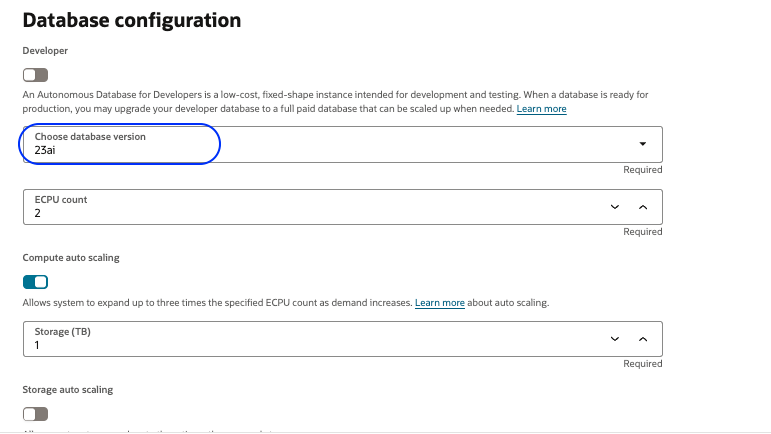
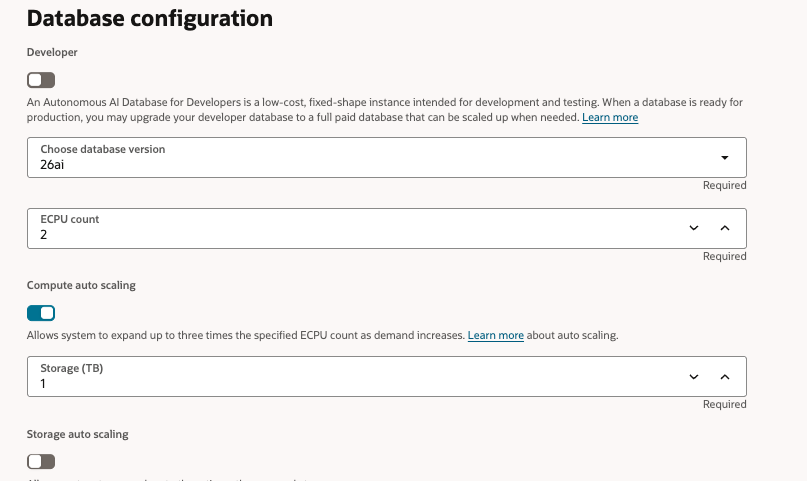
Fixes & Redwood theme updates (#457)
* Update manifest.json

* Update manifest.json

* Update manifest.json

* fixes

* Update agentrun.md

diff --git a/generative-ai-agent-adk/agent-setup/setup.md b/generative-ai-agent-adk/agent-setup/setup.md
@@ -15,7 +15,7 @@ Estimated Time: 30 minutes
 
 ## Task 1: Dynamic Group and Policy Definition
 
-This task will help you ensure that the Dynamic Group and Policy are correctly defined.
+This task will help you setup and verify that the Dynamic Group and Policy are correctly defined.
 
 1. Locate Domains under Identity & Security
 
@@ -26,8 +26,7 @@ This task will help you ensure that the Dynamic Group and Policy are correctly d
 3. Click on Dynamic Groups, and then your Dynamic Group name.
 
     ![Dynamic group](images/domain_dg.png)
-
-4. Click Create dynamic group. Provide a name and a description. Select the option Match any rules defined below.
+1. Click *Create Dynamic Group.* Provide a name and description, then select the "Match any rules defined below" option.
 
     ![Create Dynamic group](images/create_dg.png)
     
@@ -51,7 +50,7 @@ This task will help you ensure that the Dynamic Group and Policy are correctly d
 
 ## Task 2: Create Policies
 
-This task will help you associate necessary policies with the dynamic group.
+This task will help you associate the necessary policies with the dynamic group.
 
 1. Select Policies from the Identity & Security section.
 
@@ -65,9 +64,8 @@ This task will help you associate necessary policies with the dynamic group.
 
     ![create policy](images/create_policy.png)
 
-5. Click the Show manual editor option.
-
-6. Add the policy statements below, ensuring to update the OCIDs accordingly:
+1. Click *Show manual editor* option.
+1. Add below policy statements,ensure to update resource's OCIDs accordingly.
 
    ```
    <copy>
@@ -88,7 +86,7 @@ This task will help you associate necessary policies with the dynamic group.
 
 ## Task 3: Create Virtual Cloud Network and Subnet
 
-This task allows you to create the VCN that we will use for various transactions.
+This task allows you to create the VCN that will be used for various transactions.
 
 1. From OCI Console, select Networking > Virtual Cloud Networks
 
@@ -102,15 +100,14 @@ This task allows you to create the VCN that we will use for various transactions
 
     ![VCN options](images/vcn_options.png)
 
-4. Provide a name and description. Use the default information and create the VCN.
-
-5. Wait for the VCN state to become Active.
+1. Provide a name and description, use the default settings, and create the VCN.
+1. Wait for the vcn state to be *Active*.
 
     ![VCN State](images/vcn_active.png)
 
 ## Task 4: Create Autonomous AI Database (ADB).
 
-This task helps to create an ADB that we will use for NL2SQL tool usage.
+This task helps you create the ADB for use with the NL2SQL tool.
 
 1. From OCI Console > Oracle AI Database > Autonomous AI Databases
 
@@ -122,7 +119,7 @@ This task helps to create an ADB that we will use for NL2SQL tool usage.
 
     ![Create DB](images/create_db_basic.png)
 
-4. Select version 26ai. Select other default configuration values.
+1. Select version as *26ai*.Select other default configuration values.
 
     ![ADB config](images/adb_base_config.png)
 
@@ -142,22 +139,15 @@ This task helps to create an ADB that we will use for NL2SQL tool usage.
 
 ## Task 5: Create a Vault
 
-This task helps to set up the OCI Vault.
+This task helps you set up the OCI Vault.
 
-1. From OCI Console > Identity & Security > Key Management & Secret Management > Vault
-
+1. From the OCI Console, go to *Identity & Security* > *Key Management & Secret Management* > *Vault*.
     ![Create vault](images/create_vault.png)
-
-2. Click Create Vault. Provide a name and click Create Vault.
-
+1. Click *Create Vault*, provide a name, and click *Create Vault*.
     ![Create vault](images/vault_master.png)
-
-3. Click Create Master Key. Provide a name and use the default options. Click Create Key.
-
-
+1. Click *Create Master Key*, provide a name, use the default options, and click *Create Key*.
     ![Create master key](images/create_vault_key.png)
-
-4. Wait until the resources are in Active state before moving to the next section.
+1. Wait until the resources are in the active state before proceeding to the next section.
 
 ## Task 6: Create Database Connection
 
@@ -167,7 +157,7 @@ This task allows you to create a DB connection for agent usage.
 
     ![DB connections](images/db_connection.png)
 
-2. Click Create Connection. Provide a name for the connection. Always ensure the desired compartment is selected.
+1. Click *Create connection*.Provide name for the connection.Always ensure you have selected  the desired compartment. 
 
     ![DB connection create](images/connection_basics.png)
 

diff --git a/generative-ai-agent-adk/rag-tools/ragtools.md b/generative-ai-agent-adk/rag-tools/ragtools.md
@@ -2,24 +2,24 @@
 
 ## Introduction
 
-This lab will take you through the steps needed to install, set up a knowledge base, configure a data source, and connect it with OCI Agents. The lab covers the following elements of OCI Generative AI Agents concepts:
+This lab will guide you through the steps to set up knowledge bases, configure data sources, and connect with OCI Agents. The lab covers the following OCI Generative AI Agent concepts:
 
-- RAG Tool – A RAG tool in Generative AI Agents retrieves information from one or more knowledge bases and aims to respond with relevant and context-aware information in natural language.
-- Knowledge Bases – A knowledge base is the foundation for all the data sources that an agent can use to retrieve information for its chat answers. You can create a knowledge base in advance and then add it to an agent's RAG tool.
-- Data Source – A data source points to the location of the data. After you add a data source to a knowledge base, you must ingest the data so agents using the knowledge base can access that information.
+* *RAG Tool* - In Generative AI Agents, a RAG tool retrieves information from one or more knowledge bases and provides relevant, context-aware responses in natural language.
+* *Knowledge Bases* - A knowledge base contains the data sources that an agent can use to retrieve information for chat responses. You can create a knowledge base in advance and then add it to an agent's RAG tool.
+* *Data Source* - A data source specifies where the data resides. After adding a data source to a knowledge base, you must ingest the data so that agents using the knowledge base can access it.
 
 Estimated Time: 30 minutes
 
 ## Task 1: Download PDFs for the RAG usage.
 
-1. Run the command below if using a Data Science notebook. Otherwise, move to the next step for ADK running on a local machine.
+1. Run the command below for the Data Science notebook, or proceed to the next step for running ADK on a local machine.
 
-    ```
-    <copy>
-    mkdir pdfs
-    wget https://docs.oracle.com/en/database/oracle/sql-developer-command-line/19.2/sqcug/oracle-sqlcl-users-guide.pdf -O pdfs/oracle-sqlcl-users-guide.pdf
-    wget https://docs.oracle.com/en/database/oracle/oracle-database/23/vecse/ai-vector-search-users-guide.pdf -O pdfs/ai-vector-search-users-guide.pdf
-    wget https://docs.oracle.com/en/operating-systems/oracle-linux/10/relnotes10.0/OL10-RELNOTES-10-0.pdf -O pdfs/OL10-RELNOTES-10-0.pdf
+   ```
+   <copy>
+    !mkdir pdfs
+    !wget https://docs.oracle.com/en/database/oracle/sql-developer-command-line/19.2/sqcug/oracle-sqlcl-users-guide.pdf -O pdfs/oracle-sqlcl-users-guide.pdf
+    !wget https://docs.oracle.com/en/database/oracle/oracle-database/26/vecse/ai-vector-search-users-guide.pdf -O pdfs/ai-vector-search-users-guide.pdf
+    !wget https://docs.oracle.com/en/operating-systems/oracle-linux/10/relnotes10.0/OL10-RELNOTES-10-0.pdf -O pdfs/OL10-RELNOTES-10-0.pdf
     </copy>
     ```
 
@@ -31,7 +31,7 @@ Estimated Time: 30 minutes
     <copy>
     mkdir pdfs
     wget https://docs.oracle.com/en/database/oracle/sql-developer-command-line/19.2/sqcug/oracle-sqlcl-users-guide.pdf -O pdfs/oracle-sqlcl-users-guide.pdf
-    wget https://docs.oracle.com/en/database/oracle/oracle-database/23/vecse/ai-vector-search-users-guide.pdf -O pdfs/ai-vector-search-users-guide.pdf
+    wget https://docs.oracle.com/en/database/oracle/oracle-database/26/vecse/ai-vector-search-users-guide.pdf -O pdfs/ai-vector-search-users-guide.pdf
     wget https://docs.oracle.com/en/operating-systems/oracle-linux/10/relnotes10.0/OL10-RELNOTES-10-0.pdf -O pdfs/OL10-RELNOTES-10-0.pdf
     </copy>
     ```
@@ -109,7 +109,7 @@ Estimated Time: 30 minutes
 
     ![KB progress](images/kb_in_progress.png)
 
-14. Once it becomes active, make a note of the OCID for further steps.
+1. Once its become active,make a note of the OCID for further steps.
 
     ![KB final](images/kb_active.png)
 

diff --git a/generative-ai-agent-adk/agent-run/agentrun.md b/generative-ai-agent-adk/agent-run/agentrun.md
@@ -2,12 +2,11 @@
 
 ## Introduction
 
-This lab will provide various run modes with the Agent we have configured.
-
+This lab demonstrates various run modes available with the configured *Agent*.
 
 ## Task 1: Run a query using RAG tool.
 
-1. Run the query below to fetch answers from the OCI Agent RAG tool based on the attached knowledge base.
+1. Run the query below to fetch answers from the OCI Agent RAG tool, using the attached knowledge base.
 
     ```
     <copy>
@@ -16,6 +15,7 @@ This lab will provide various run modes with the Agent we have configured.
     response.pretty_print()
     </copy>
     ```
+* The agent will run and share the information based on the RAG tool.
 
     The agent will run and share the information based on the RAG tool.
 
@@ -23,7 +23,7 @@ This lab will provide various run modes with the Agent we have configured.
 
 ## Task 2: Validate SQL tool execution.
 
-1. Run the query below to fetch information via the agent, which will retrieve and report the data from the Autonomous AI Database.
+1. Run the query below to fetch information through the agent, which will retrieve and report data from the Autonomous AI Database.
 
     ```
     <copy>
@@ -32,13 +32,13 @@ This lab will provide various run modes with the Agent we have configured.
     response.pretty_print()
     </copy>
     ```
-* Here, the query about the secondary category will be translated to the product subcategory based on the column description defined during SQL tool setup.
+* Here, the query about secondary category will be mapped to the product subcategory, based on the column description defined during SQL Tool setup.
 
     ![SQL Run](images/sql-run.png)
 
 ## Task 3: Validate function execution.
 
-1. Run the command below to see how the agent reacts based on the function tool we defined.
+1. Run the code below to see how the agent responds using the defined function tool.
 
     ```
     <copy>
@@ -50,10 +50,9 @@ This lab will provide various run modes with the Agent we have configured.
     ![Custom tool run](images/custom_tool_run.png)
 
 ## Task 4 : Sample agent run using OCI SDK.
+Here, we use the OCI Python SDK to run the agent endpoint and fetch results.
 
-Here we are using the OCI Python SDK to run the agent endpoint and fetch results.
-
-1. Use the snippet below to fetch results using the OCI SDK. You may comment/uncomment the Auth section, region, and endpoint details accordingly.
+1. Use the snippet below to retrieve results with the OCI SDK. Comment or uncomment the authentication section, region, and endpoint details as needed.
 
     ```
     <copy>
@@ -117,7 +116,7 @@ Here we are using the OCI Python SDK to run the agent endpoint and fetch results
     ```
     ![SDK Run](images/sdk-run.png)
 
-2. A sample execution result will be as follows. It is for demo purposes only, and the same can be achieved using ADK. As you may observe, the SDK operates at a lower API level, while ADK remains at a higher abstraction layer.
+1. A sample execution result is shown below for demonstration purposes. The same outcome can be achieved using ADK. The SDK operates at a lower API level, while ADK functions at a higher abstraction layer.
 
     ![SDK run output](images/sdk-output.png)
 

diff --git a/generative-ai-agent-adk/agent-config/agentconfig.md b/generative-ai-agent-adk/agent-config/agentconfig.md
@@ -34,9 +34,7 @@ This task imports various ADK Python modules as well as some optional libraries 
     ```
 
     ![](images/module_import.png)
-
-3. For notebooks, you may use the Play button and run these commands. For Python scripts, you may use your editor or run using the python script.py format.
-
+1. In notebooks, use the *Play* button to run these commands. For Python scripts, use your editor or run with the *python script.py* command.
 
 ## Task 2: Define variables.
 
@@ -66,7 +64,7 @@ This task imports various ADK Python modules as well as some optional libraries 
 
 ## Task 3: Define a custom tool based on function.
 
-1. Use the below code to set a simple custom function-based tool, which will return the season based on a location.
+1. Use the code below to create a simple custom function-based tool that returns the season for a given location.
 
     ```
     <copy>
@@ -97,9 +95,9 @@ This task imports various ADK Python modules as well as some optional libraries 
 
 ## Task 4: Define MCP call using stdIO mode.
 
-* We are using an open-source MCP library to fetch information from the public internet.
-* The library details and credit goes to https://github.com/openbnb-org/mcp-server-airbnb.
-* If you are using local client execution, ensure Node.js and npx are available to run.
+* We use an open-source MCP library to fetch information from the public internet.
+* Library details and credit: https://github.com/openbnb-org/mcp-server-airbnb.
+* For local client execution, ensure Node.js and npx are available.
 
 1. Copy the below to a notebook or local script to define the MCP.
 
@@ -170,11 +168,10 @@ This task imports various ADK Python modules as well as some optional libraries 
 
 
 
-## Task 7: Initialize and set up the agent.
-During the process, the ADK will check the tools defined and associate them with the Agent.
-The process may take several minutes depending on the tools and their configuration.
+## Task 7: Initialize and setup the agent.
+During the process, ADK will check the defined tools and associate them with the Agent. This may take several minutes, depending on the tools and their configuration.
 
-1. Run the below to set up and run a sample query. The setup process is only needed for the first time or for any configuration changes that need to be pushed from the local environment or notebook to agents. You may update your query as well.
+1. Run the following to set up and execute a sample query. Setup is required only the first time or when configuration changes need to be pushed from local or notebook to the agent. You may also update your query as needed.
 
     ```
     <copy>

diff --git a/generative-ai-agent-adk/introduction/introduction.md b/generative-ai-agent-adk/introduction/introduction.md
@@ -14,7 +14,13 @@ Estimated Workshop Time: 2 hours
 
 ### Objectives
 
-The objective of this workshop is to configure, build, deploy, and run OCI Generative AI Agents using the Agent Development Kit (ADK). The following services and features will be covered during the lab:
+The objective of this workshop is to configure, build, deploy, and run OCI Generative AI Agents using the Agent Development Kit (**ADK**). The following services and features will be covered during the lab:
+
+* OCI Generative AI Agent build and deploy
+* Configure and use the inbuilt Retrieval Augmented Generation (**RAG**) tool
+* Configure and use the inbuilt Natural Language to SQL tool (**NL2SQL**)
+* Use Model Context Protocol (**MCP**) with OCI Generative AI Agent
+* Configure and use custom tools with OCI Generative AI Agents
 
 - OCI Generative AI Agent build and deploy
 - Configure and use the inbuilt Retrieval Augmented Generation (RAG) tool
@@ -26,13 +32,13 @@ The objective of this workshop is to configure, build, deploy, and run OCI Gener
 
 This lab assumes you have:
 
-- An Oracle Cloud Account (non-Free Tier)
-- Access to OCI Generative AI Agents
-- Access to a region where the Agent service is available
-  - Refer [here for more.](https://docs.oracle.com/en-us/iaas/Content/generative-ai-agents/overview.htm#regions)
-- An OCI compartment where we will allocate all the necessary resources
-- An Administrator account or permissions to manage several OCI services: Generative AI Agents, Autonomous Databases, Data Science, Object Storage, Network, Dynamic Groups, Policies, IDCS/Identity
-- Familiarity with Oracle Cloud Infrastructure (OCI) is helpful
+* An Oracle Cloud Account (Non-Free Tier).
+* Access to OCI Generative AI Agents.
+* Access to a region where the Agent service is available. 
+    * Refer [here for more.](https://docs.oracle.com/en-us/iaas/Content/generative-ai-agents/overview.htm#regions)
+* An OCI compartment for allocating all necessary resources.
+* An Administrator Account or permissions to manage the following OCI services: Generative AI Agents, Autonomous Databases, Data Science, Object Storage, Network, Dynamic Groups, Policies, IDCS/Identity
+* Familiarity with Oracle Cloud Infrastructure (OCI) is helpful.
 
 ## Learn More
 

diff --git a/generative-ai-agent-adk/sql-tools/sqltool.md b/generative-ai-agent-adk/sql-tools/sqltool.md
@@ -2,15 +2,14 @@
 
 ## Introduction
 
-This lab will take you through the steps needed to set up an OCI Generative AI Agents SQL tool via the console. Some of the key aspects we cover are as follows:
+This lab guides you through the steps to set up an OCI Generative AI Agents SQL tool via the console. Key aspects covered include:
 
-
-- SQL Tool – A SQL tool in Generative AI Agents converts natural language queries into Oracle SQL and SQLite statements and can run the SQL commands to generate responses against a connected database.
-- Databases – The SQL tool in Generative AI Agents supports Oracle Database (Base Database and Autonomous Database).
-- Database Schema – A valid database schema must be provided when you add a SQL tool to an agent in Generative AI Agents. SQL tool creation fails at the validation step if the schema is invalid.
-- Model Customization – When creating a SQL tool, you can select between using a small or large model.
-  - A small model provides faster response times. Use it for simple queries such as "Get total sales for January 2025."
-  - A large model provides more accuracy but at the cost of higher latency. Use it for complex queries such as "Show the average sales of the top 5 performing products in Q1 2023 grouped by region."
+* *SQL Tool* - In Generative AI Agents, the SQL tool converts natural language queries into Oracle SQL and SQLite statements, and can execute these commands to generate responses from a connected database.
+* *Databases* - The SQL tool supports Oracle Database (Base Database and Autonomous Database).
+* *Database Schema* - A valid database schema must be provided when adding a SQL tool to an agent. SQL tool creation will fail at the validation step if the schema is invalid.
+* *Model Customization* - When creating a SQL tool, you can choose between a small or large model.  
+  A small model offers faster response times and is recommended for simple queries, such as "Get total sales for January 2025."  
+  A large model provides higher accuracy but with increased latency, making it suitable for complex queries, such as "Show the average sales of the top 5 performing products in Q1 2023 grouped by region."
 
 Estimated Time: 30 minutes
 

diff --git a/generative-ai-agent-adk/adk-installation/adk_install.md b/generative-ai-agent-adk/adk-installation/adk_install.md
@@ -2,7 +2,7 @@
 
 ## Introduction
 
-This lab will take you through the steps needed to install ADK using the Python installer. We recommend using an OCI Data Science-based notebook to run the operation, as it comes with all the necessary software in place. However, we have added optional steps to follow on a local machine for the ADK client setup.
+This lab guides you through installing ADK using the Python installer. We recommend using an *OCI Data Science* notebook, as it includes all necessary software. Optional steps are provided for installing the ADK client on a local machine.
 
 Estimated Time: 30 minutes
 

diff --git a/generative-ai-agent-adk/references/references.md b/generative-ai-agent-adk/references/references.md
@@ -1,9 +1,9 @@
 # References
 
 ## Introduction
+The reference section provides sample snippets used in the lab, along with key links.
 
-This reference section provides the sample snippet that we used, as well as some of the key links.
-    * The full sample used during the labs can be found below:
+* The complete sample used during the labs is provided below.
 
 ```
 import nest_asyncio
